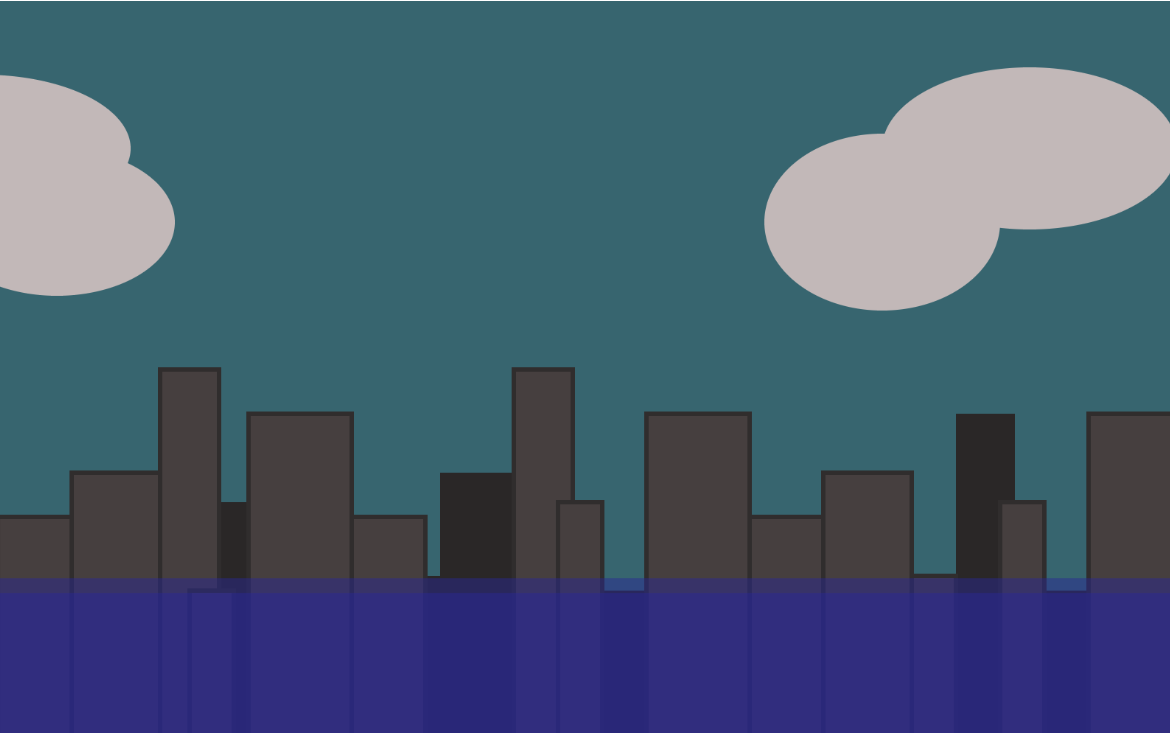
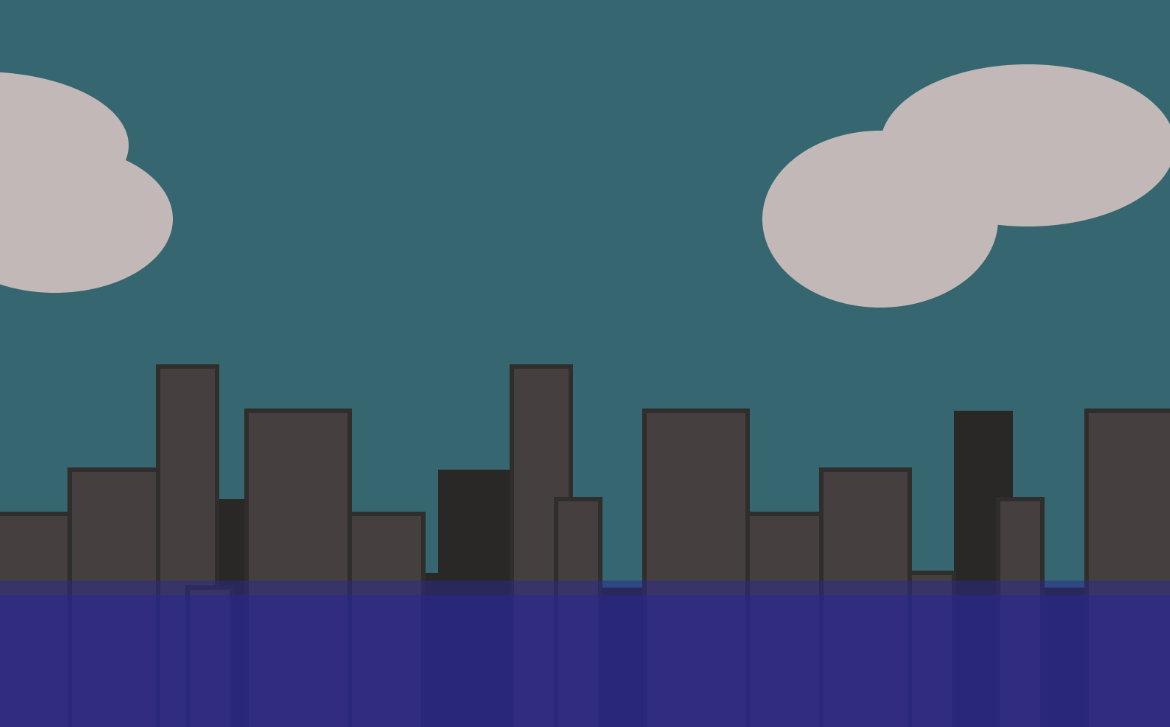
replaced the screenshot for flooding city
there was a little white line on the top of the screenshot, so I replaced it with one that doesnt

diff --git a/topics/variables/PROTOYPES/Flooding-City!/js/script.js b/topics/variables/PROTOYPES/Flooding-City!/js/script.js
@@ -3,7 +3,9 @@
  * Justine Cormier
  * 
  * Water floods the whole city!! The sky turns grey, and water covers the city
- * past its highest building! With the ongoing climate crisis, this might happen to Montreal one day....
+ * past its highest building! Interacting with the screen won't stop or
+ * worsen the flood, representing the feelings of powerlessness you may feel
+ * about the ongoing climate crisis... This might happen to Montreal one day....
  */
 
 "use strict";

diff --git a/topics/variables/PROTOYPES/Flooding-City!/README.md b/topics/variables/PROTOYPES/Flooding-City!/README.md
@@ -6,7 +6,10 @@ JUSTINE CORMIER
 
 ## Description
 
-Water floods the whole city!! The sky turns grey, and water covers the city past its highest building! With the ongoing climate crisis, this might happen to Montreal one day....
+Water floods the whole city!! The sky turns grey, and water covers the city
+past its highest building! Interacting with the screen won't stop or
+worsen the flood, representing the feelings of powerlessness you may feel
+about the ongoing climate crisis... This might happen to Montreal one day....
 
 ## Attribution
 
